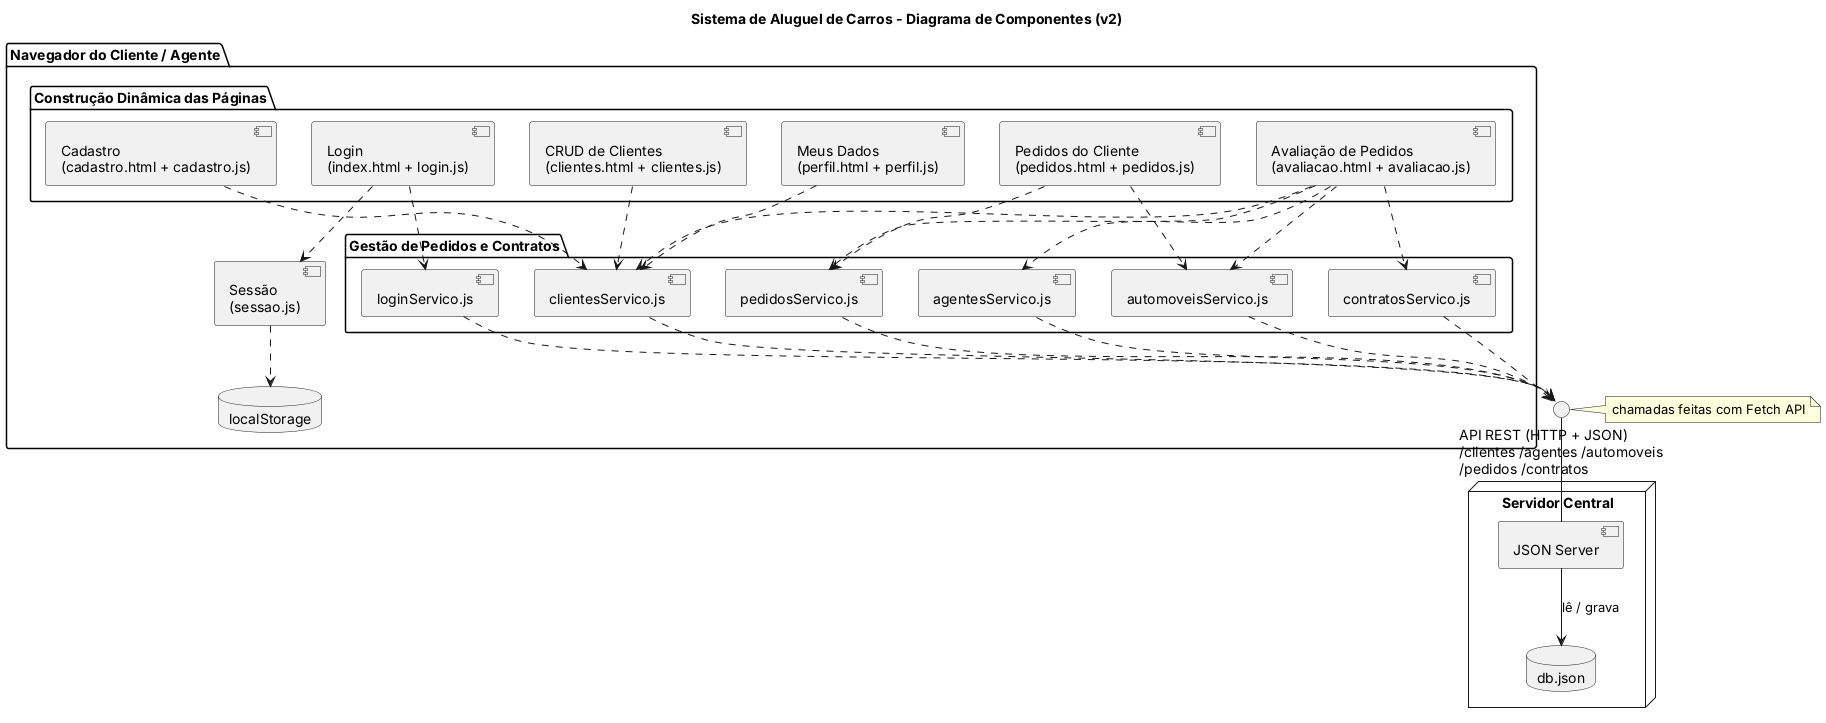
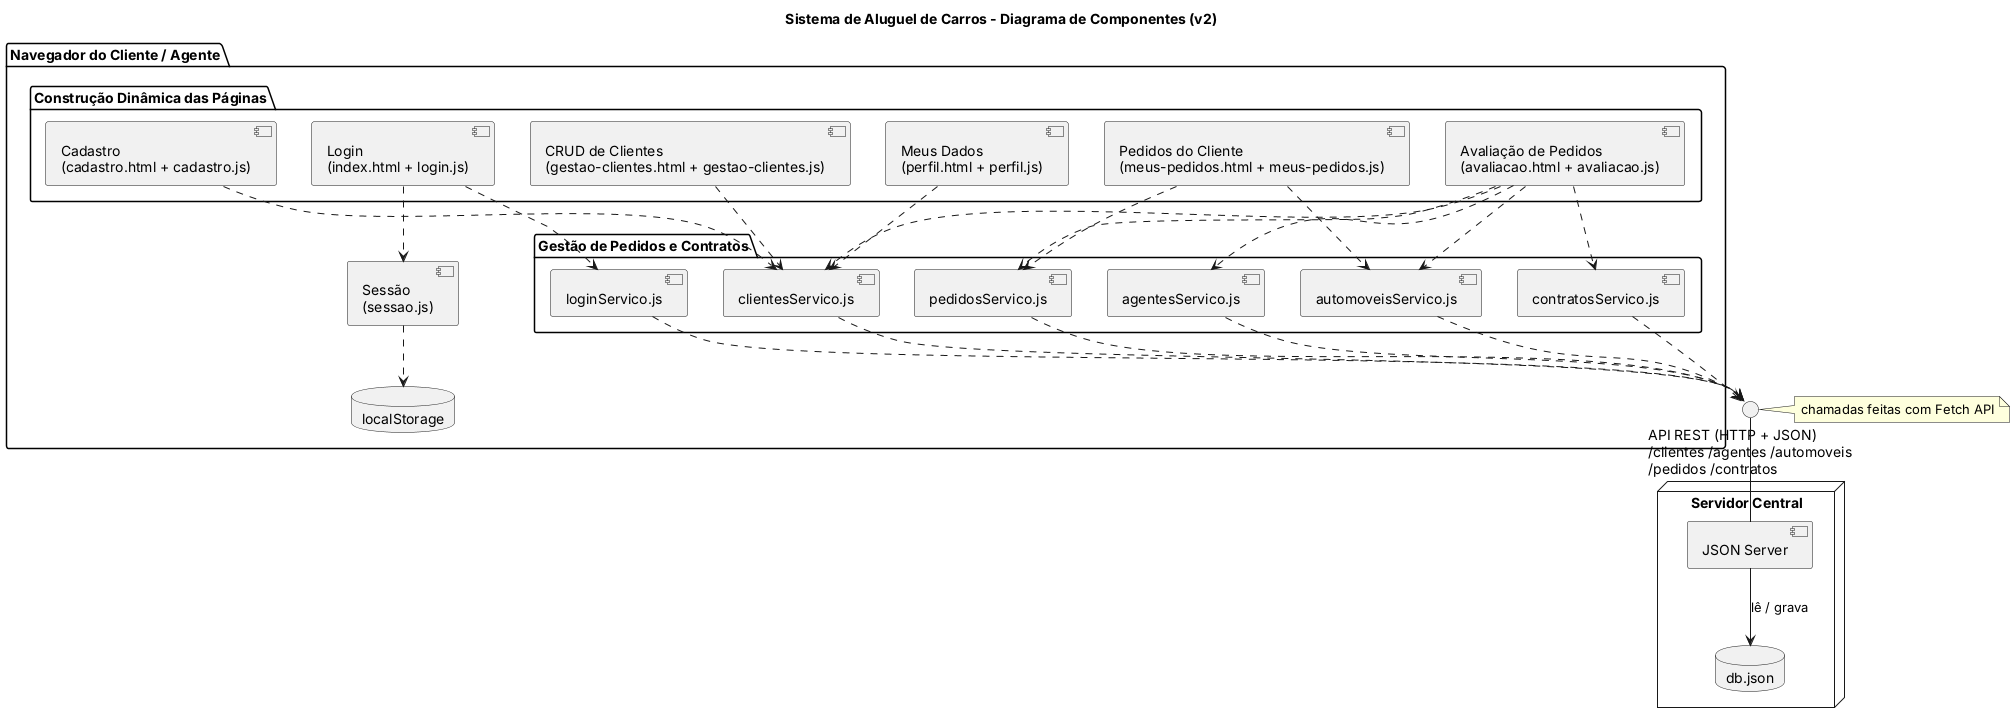
Atualiza diagramas v2 com os novos nomes das paginas

diff --git a/docs/revisao-dos-diagramas.md b/docs/revisao-dos-diagramas.md
@@ -11,8 +11,8 @@ Cada diagrama tem o arquivo `.puml` (fonte em PlantUML) e a imagem `.png` gerada
 
 ### Casos de uso
 - Adicionado **Manter dados cadastrais**: o cliente precisa alterar ou excluir o próprio cadastro (página `perfil.html`).
-- Adicionado **Gerenciar clientes**: o CRUD completo de clientes (`clientes.html`) ficou disponível para os agentes, que precisam ver os dados dos clientes para fazer a análise financeira.
-- "Consultar pedido" virou **Consultar pedidos e status**, que é o que a tela `pedidos.html` mostra.
+- Adicionado **Gerenciar clientes**: o CRUD completo de clientes (`gestao-clientes.html`) ficou disponível para os agentes, que precisam ver os dados dos clientes para fazer a análise financeira.
+- "Consultar pedido" virou **Consultar pedidos e status**, que é o que a tela `meus-pedidos.html` mostra.
 
 ### Classes
 - **Empresa e Banco** deixaram de ser subclasses de Agente. No JSON Server os dois ficam na mesma coleção `/agentes`, então foi criado o atributo `tipo` (enum `TipoAgente`). A regra de que só banco concede crédito ficou como uma nota no diagrama e é verificada no `avaliacao.js` (`sessao.tipo === "Banco"`).
@@ -22,6 +22,9 @@ Cada diagrama tem o arquivo `.puml` (fonte em PlantUML) e a imagem `.png` gerada
 - **ContratoCredito** passou a ser uma composição dentro do contrato (campo `credito` no `db.json`), com o `bancoId` e o `valor`.
 - **Rendimento** continua igual, mas aparece também como atributo `rendimentos[0..3]` do Cliente, que é como ele fica salvo no `db.json`.
 - Os métodos foram renomeados para os nomes das funções que existem no código (`criarPedido`, `atualizarPedido`, `listarPedidosDoCliente`, `criarContrato`, `fazerLogin`...).
+
+### Páginas renomeadas
+- `clientes.html` virou `gestao-clientes.html` e `pedidos.html` virou `meus-pedidos.html`. Ao testar com o JSON Server, a rota `GET /clientes` estava devolvendo a página `clientes.html` em vez do JSON (o JSON Server serve a pasta `public` antes da API e completa a extensão `.html`). Os diagramas de pacotes e de componentes da v2 já usam os nomes novos.
 
 ### Pacotes
 - Os pacotes agora mostram os arquivos de verdade de cada camada: páginas HTML (Visão), scripts de `js/paginas` (Controle), scripts de `js/servicos` (Serviços) e o `db.json` (Persistência).
@@ -37,9 +40,9 @@ Cada diagrama tem o arquivo `.puml` (fonte em PlantUML) e a imagem `.png` gerada
 
 | Classe        | Coleção no db.json | Serviço (js/servicos)   | Páginas que usam                         |
 |---------------|--------------------|-------------------------|------------------------------------------|
-| Cliente       | `clientes`         | `clientesServico.js`    | cadastro, perfil, clientes, avaliacao    |
+| Cliente       | `clientes`         | `clientesServico.js`    | cadastro, perfil, gestao-clientes, avaliacao |
 | Agente        | `agentes`          | `agentesServico.js`     | avaliacao                                |
 | Usuario       | `clientes` / `agentes` | `loginServico.js`   | index (login)                            |
-| Automovel     | `automoveis`       | `automoveisServico.js`  | pedidos, avaliacao                       |
-| Pedido        | `pedidos`          | `pedidosServico.js`     | pedidos, avaliacao                       |
+| Automovel     | `automoveis`       | `automoveisServico.js`  | meus-pedidos, avaliacao                  |
+| Pedido        | `pedidos`          | `pedidosServico.js`     | meus-pedidos, avaliacao                  |
 | Contrato      | `contratos`        | `contratosServico.js`   | avaliacao                                |
